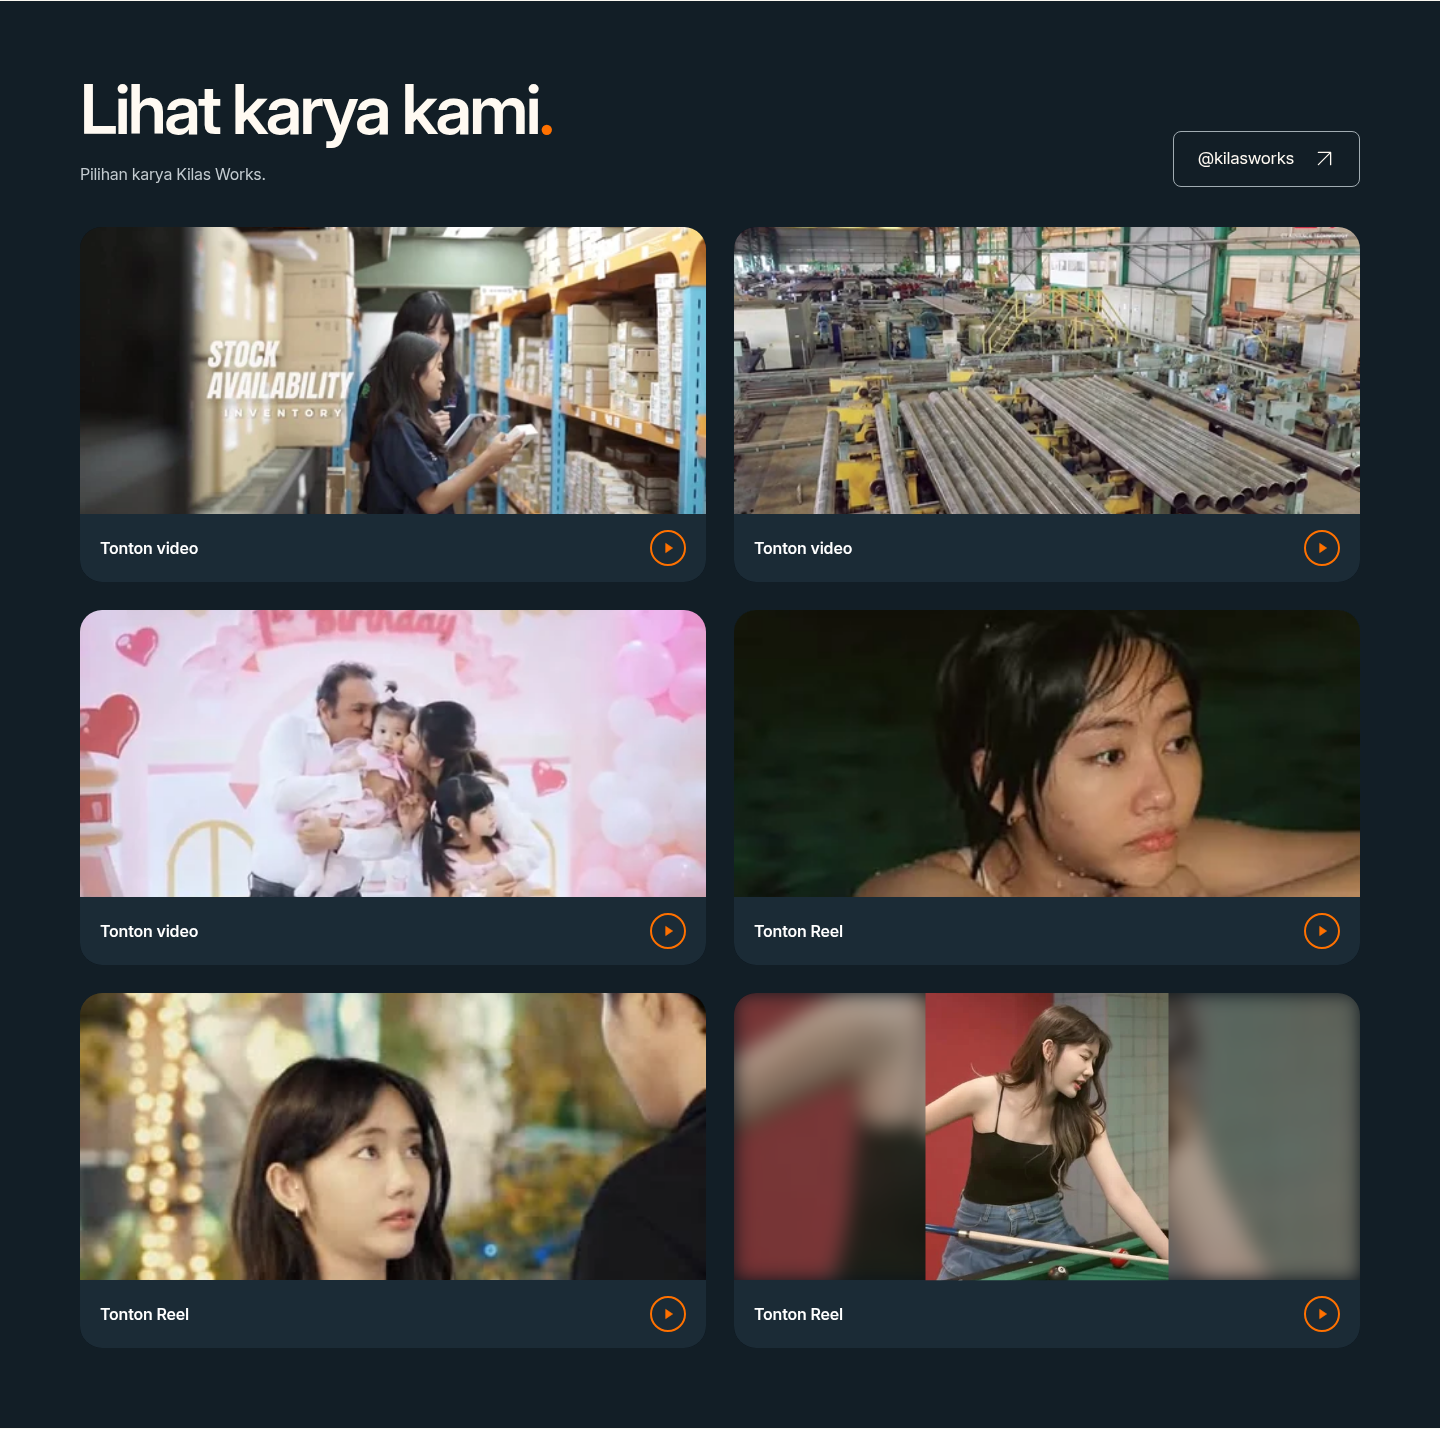
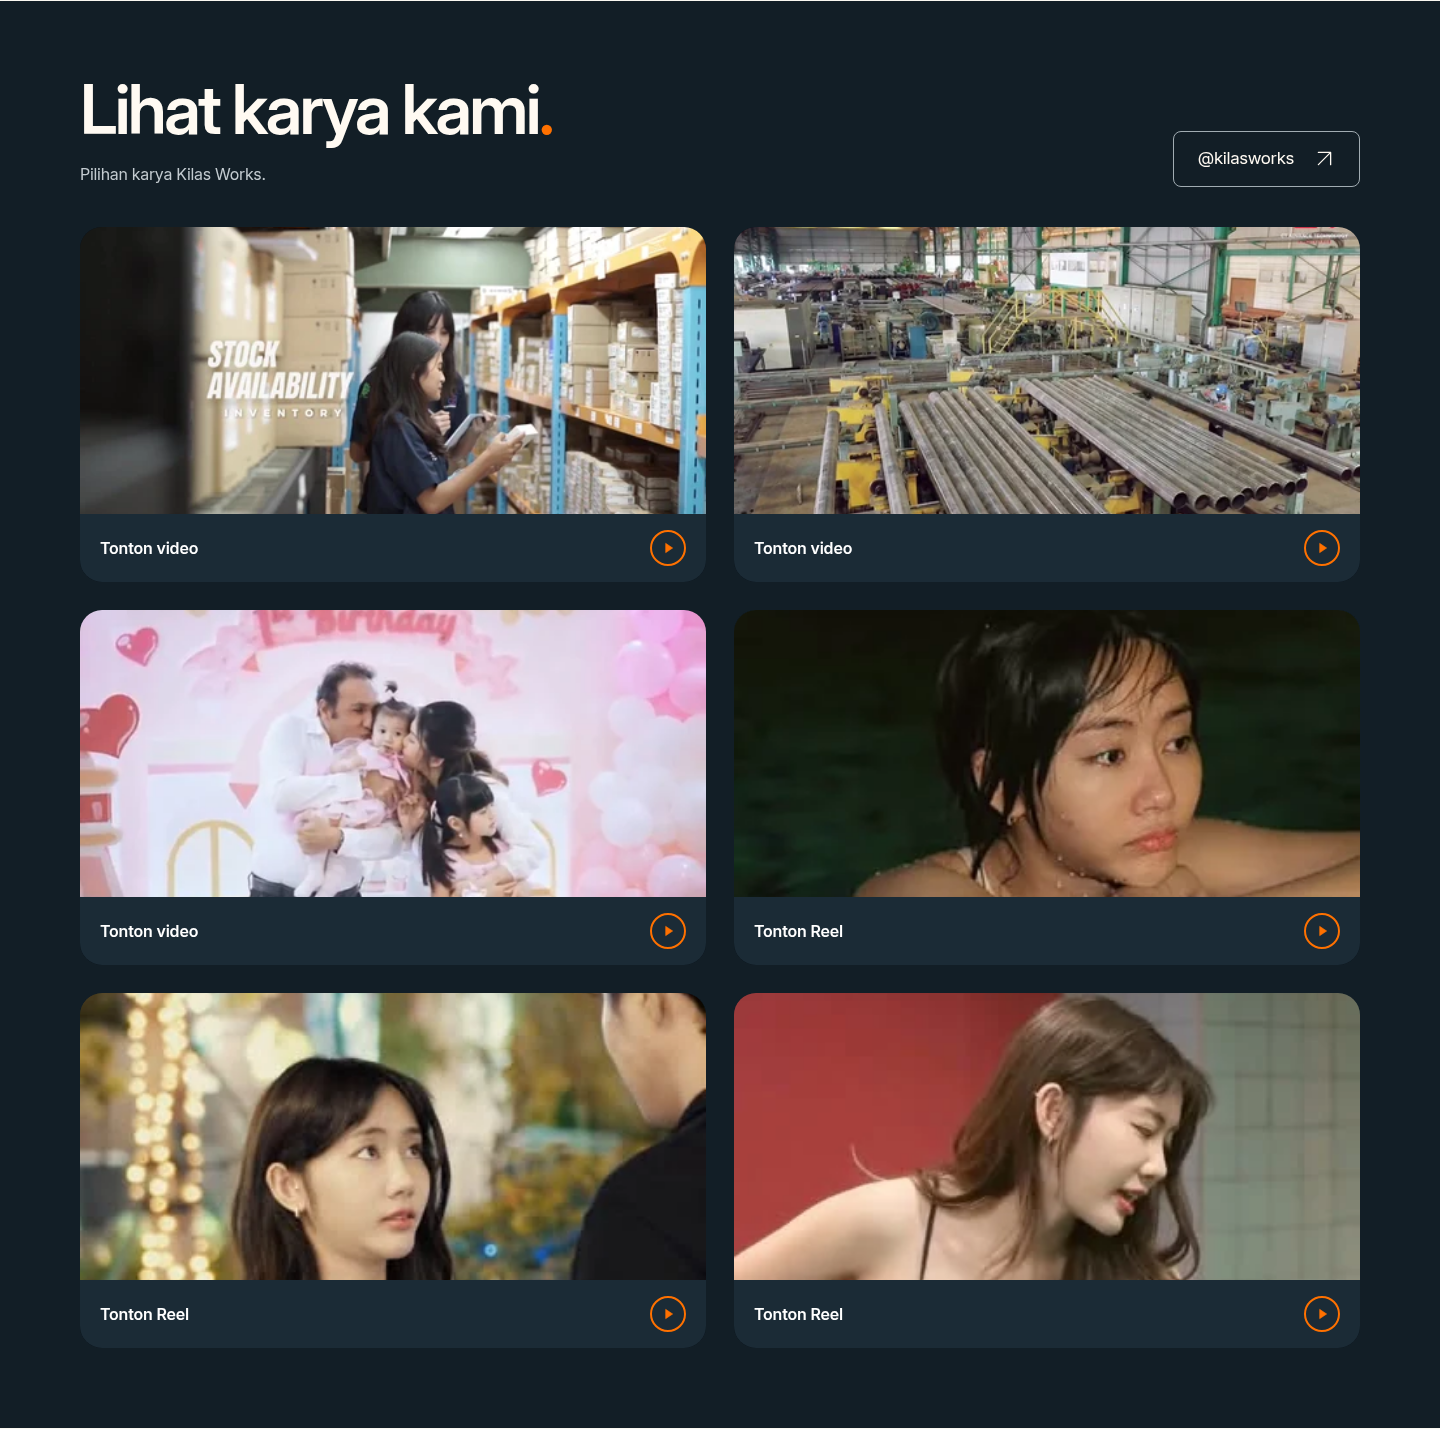
Fill every portfolio thumbnail with a landscape cover crop

Changed region(s): [[0.5, 0.6774, 0.9688, 0.8929]]

diff --git a/client-hub/creative-services-site/assets/reference-refresh.css b/client-hub/creative-services-site/assets/reference-refresh.css
@@ -68,11 +68,7 @@ h1,h2,h3{font-family:var(--font);font-weight:650;letter-spacing:-.04em}
 .cs-contact-icon{color:#ff7100;background:#ffeadb}
 .studio-reel[data-studio-work="1"] img{object-position:50% 55%}
 .studio-reel[data-studio-work="2"] img{object-position:50% 42%}
-/* A landscape crop would lose either the billiard player's face or her cue.
-   Preserve that complete frame over a soft backdrop from the same actual asset. */
-.studio-reel[data-studio-work="3"] figure{position:relative;isolation:isolate}
-.studio-reel[data-studio-work="3"] figure::before{content:'';position:absolute;inset:0 0 68px;background:linear-gradient(#121e2655,#121e2655),url('portfolio/DdESSzkp1to-360.webp') center/cover;filter:blur(10px);z-index:-1}
-.studio-portfolio-visuals .studio-reel[data-studio-work="3"] img{object-fit:contain;background:transparent}
+.studio-reel[data-studio-work="3"] img{object-position:50% 26%}
 .cs-business-info dl{max-width:100%;gap:40px}
 .cs-business-info dt{font-size:clamp(18px,1.6vw,22px);line-height:1.5;margin-bottom:10px}
 .cs-business-info dd{font-size:clamp(24px,2.4vw,32px);line-height:1.6}
@@ -81,10 +77,8 @@ h1,h2,h3{font-family:var(--font);font-weight:650;letter-spacing:-.04em}
 .cs-business-info .cs-business-whatsapp .cs-whatsapp-mark{width:30px;height:30px;color:#ff7100;flex:none}
 .cs-business-info .cs-business-whatsapp>svg:last-child{width:26px;height:26px;color:#ff7100;margin-left:auto;flex:none}
 .cs-business-info .cs-business-whatsapp:hover{border-color:#c65400;background:#ffeadb;color:#20262a}
-@media(max-width:700px){.cs-business-info dt{font-size:18px;margin-bottom:6px}.cs-business-info dd{font-size:clamp(18px,5.2vw,22px);line-height:1.65}.cs-business-info dl{gap:28px}.cs-business-info .cs-business-whatsapp{width:100%;max-width:360px;min-height:64px;padding:14px 22px;margin-top:30px;font-size:20px}.studio-reel[data-studio-work="3"] figure::before{bottom:56px}}
+@media(max-width:700px){.cs-business-info dt{font-size:18px;margin-bottom:6px}.cs-business-info dd{font-size:clamp(18px,5.2vw,22px);line-height:1.65}.cs-business-info dl{gap:28px}.cs-business-info .cs-business-whatsapp{width:100%;max-width:360px;min-height:64px;padding:14px 22px;margin-top:30px;font-size:20px}}
 @media(min-width:701px){.cs-business-info dl>div{grid-template-columns:104px minmax(0,1fr);column-gap:28px}.cs-contact-icon{width:104px;height:104px;border-radius:20px}.cs-contact-icon svg{width:42px;height:42px}}
 .contact .cs-brief-prepare{background:#ff7100;border-color:#ff7100;color:#121e26}
 .contact .cs-brief-prepare:hover{background:#ff8a2b;border-color:#ff8a2b;color:#121e26}
 .contact .cs-business-info a:focus-visible{outline-color:#121e26}
-/* Enlarge the intact billiards subject while retaining both face and cue. */
-.studio-portfolio-visuals .studio-reel[data-studio-work="3"] img{transform:scale(1.5);clip-path:inset(16.667% 0);transform-origin:center}

diff --git a/creative-services-site/assets/reference-refresh.css b/creative-services-site/assets/reference-refresh.css
@@ -68,11 +68,7 @@ h1,h2,h3{font-family:var(--font);font-weight:650;letter-spacing:-.04em}
 .cs-contact-icon{color:#ff7100;background:#ffeadb}
 .studio-reel[data-studio-work="1"] img{object-position:50% 55%}
 .studio-reel[data-studio-work="2"] img{object-position:50% 42%}
-/* A landscape crop would lose either the billiard player's face or her cue.
-   Preserve that complete frame over a soft backdrop from the same actual asset. */
-.studio-reel[data-studio-work="3"] figure{position:relative;isolation:isolate}
-.studio-reel[data-studio-work="3"] figure::before{content:'';position:absolute;inset:0 0 68px;background:linear-gradient(#121e2655,#121e2655),url('portfolio/DdESSzkp1to-360.webp') center/cover;filter:blur(10px);z-index:-1}
-.studio-portfolio-visuals .studio-reel[data-studio-work="3"] img{object-fit:contain;background:transparent}
+.studio-reel[data-studio-work="3"] img{object-position:50% 26%}
 .cs-business-info dl{max-width:100%;gap:40px}
 .cs-business-info dt{font-size:clamp(18px,1.6vw,22px);line-height:1.5;margin-bottom:10px}
 .cs-business-info dd{font-size:clamp(24px,2.4vw,32px);line-height:1.6}
@@ -81,10 +77,8 @@ h1,h2,h3{font-family:var(--font);font-weight:650;letter-spacing:-.04em}
 .cs-business-info .cs-business-whatsapp .cs-whatsapp-mark{width:30px;height:30px;color:#ff7100;flex:none}
 .cs-business-info .cs-business-whatsapp>svg:last-child{width:26px;height:26px;color:#ff7100;margin-left:auto;flex:none}
 .cs-business-info .cs-business-whatsapp:hover{border-color:#c65400;background:#ffeadb;color:#20262a}
-@media(max-width:700px){.cs-business-info dt{font-size:18px;margin-bottom:6px}.cs-business-info dd{font-size:clamp(18px,5.2vw,22px);line-height:1.65}.cs-business-info dl{gap:28px}.cs-business-info .cs-business-whatsapp{width:100%;max-width:360px;min-height:64px;padding:14px 22px;margin-top:30px;font-size:20px}.studio-reel[data-studio-work="3"] figure::before{bottom:56px}}
+@media(max-width:700px){.cs-business-info dt{font-size:18px;margin-bottom:6px}.cs-business-info dd{font-size:clamp(18px,5.2vw,22px);line-height:1.65}.cs-business-info dl{gap:28px}.cs-business-info .cs-business-whatsapp{width:100%;max-width:360px;min-height:64px;padding:14px 22px;margin-top:30px;font-size:20px}}
 @media(min-width:701px){.cs-business-info dl>div{grid-template-columns:104px minmax(0,1fr);column-gap:28px}.cs-contact-icon{width:104px;height:104px;border-radius:20px}.cs-contact-icon svg{width:42px;height:42px}}
 .contact .cs-brief-prepare{background:#ff7100;border-color:#ff7100;color:#121e26}
 .contact .cs-brief-prepare:hover{background:#ff8a2b;border-color:#ff8a2b;color:#121e26}
 .contact .cs-business-info a:focus-visible{outline-color:#121e26}
-/* Enlarge the intact billiards subject while retaining both face and cue. */
-.studio-portfolio-visuals .studio-reel[data-studio-work="3"] img{transform:scale(1.5);clip-path:inset(16.667% 0);transform-origin:center}

diff --git a/client-hub/tests/test_creative_studio_browser.py b/client-hub/tests/test_creative_studio_browser.py
@@ -32,7 +32,7 @@ def check_portfolio(page, locale, *, activate=False, touch=False):
             assert image.get_attribute('src') in row['assets']
             assert image.get_attribute('alt')
             geometry=image.evaluate('e=>{const r=e.getBoundingClientRect();return {ratio:r.width/r.height,fit:getComputedStyle(e).objectFit}}')
-            assert abs(geometry['ratio']-2.18)<.005 and geometry['fit']==('contain' if row['id']=='DdESSzkp1to' else 'cover'),geometry
+            assert abs(geometry['ratio']-2.18)<.005 and geometry['fit']=='cover',geometry
             card.focus();expect(card).to_be_focused()
             if activate:
                 with page.context.expect_page() as pending:

diff --git a/docs/qa/studio-framing-20261104/README.md b/docs/qa/studio-framing-20261104/README.md
@@ -2,7 +2,7 @@
 
 Follow-up to the parent's production/reference pixel comparison. Original production assets and URLs remain unchanged.
 
-- Five cards now fill their landscape image regions with cover crops. Pool and conversation use per-asset vertical positioning to retain faces. The billiards image cannot retain both face and cue in a full-width landscape crop, so it uses an enlarged safe composition over a softened background from that same production thumbnail; no synthetic assets are introduced. The player and cue remain visible. Responsive image sizes now reflect the actual two-column layout, requesting the largest appropriate existing source rather than the old three-column/240px assumption.
+- All six cards fill equal landscape image regions with genuine cover crops. Pool, conversation and billiards use per-asset vertical positions to prioritize faces/upper body. No portrait foreground or blurred sidebars remain, following the owner's latest explicit request. The original thumbnail files and URLs are unchanged. Responsive image sizes reflect the two-column layout and select the largest appropriate existing source.
 - Portfolio/contact decorative orange is #ff7100. Contact values are 24–32px on desktop and 18–22px on mobile; labels are 18–22px. Desktop icon tiles are 104px. The entire confirmed address wraps naturally.
 - WhatsApp is a standalone 340px outlined CTA (responsive width on mobile), aligned with the section edge below the contact rows. Includes orange WhatsApp outline and arrow icons. The existing destination is preserved.
 - Enquiry form remains below the contact details. Its orange action uses dark text for readable contrast. Company heading still has no final period; section numbering remains absent. No Chat, billing, Finance, prices, contact facts or entitlement changes.
@@ -12,7 +12,7 @@ Validation: Creative Services offline regression PASS; contact checks PASS in ID
 Screenshots: portfolio-1440.png, portfolio-393.png, contact-1440.png, contact-393.png. Captures temporarily make the sticky header static solely for clean section screenshots; production header behavior is unchanged. These are local screenshots, not production evidence.
 
 Confirmed Library screenshot IDs:
-- Portfolio desktop: libfile_69f2191156c88191a655d97877c1649b
-- Portfolio mobile: libfile_d7de677104e48191b7d7497b81dac573
+- Portfolio desktop: libfile_138d0736b4e8819193f058e45832b992
+- Portfolio mobile: libfile_6b295691148881919b1578c77d068860
 - Contact desktop: libfile_19197b01fca48191a2bb8768512eac97
 - Contact mobile: libfile_7c8d1bd6fcd48191b77ca5465ec6c545
